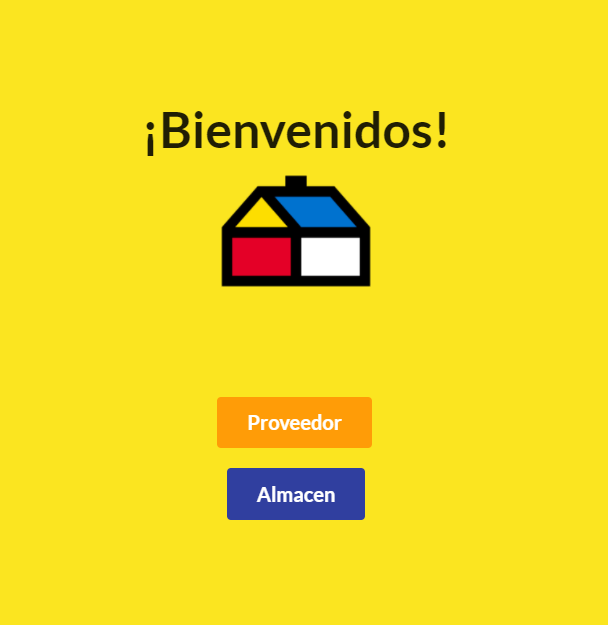
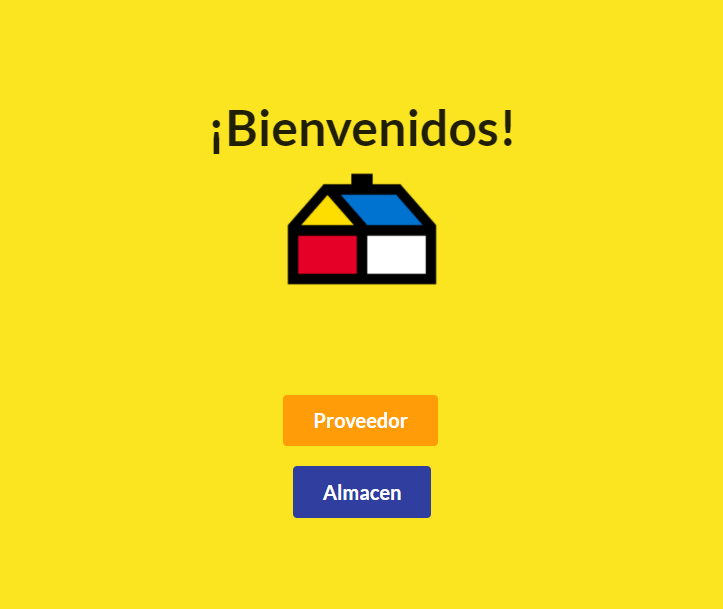
mejora de  imagen de readme

Changed region(s): [[0.3438, 0.624, 0.625, 0.8736], [0.3438, 0.2808, 0.625, 0.468], [0.2188, 0.156, 0.75, 0.2496]]

diff --git a/Readme.md b/Readme.md
@@ -4,7 +4,7 @@ vehículos de proveedores sin requerir la presencia de personal.
 
  
 
-![Sodimac-preview](https://user-images.githubusercontent.com/32302955/38687900-65740494-3e3d-11e8-8557-94f16c0656a4.png)
+![Sodimac-preview](https://user-images.githubusercontent.com/32302955/38688324-62f1a93c-3e3e-11e8-8c97-ba0e76605693.png)
 
 
 
